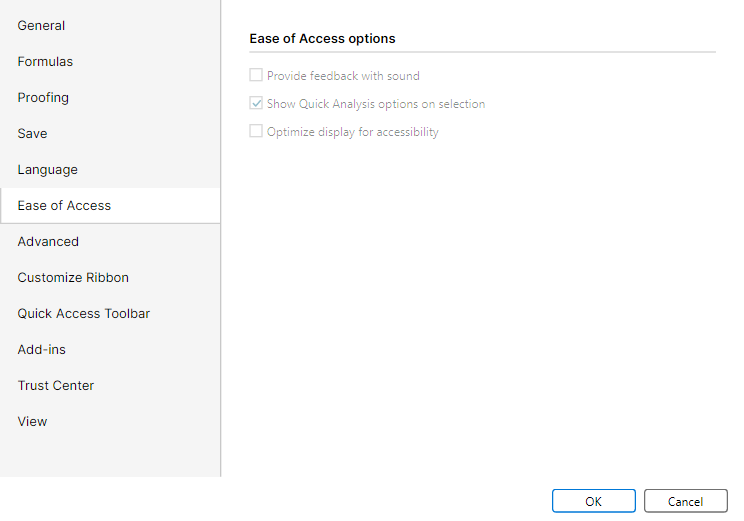
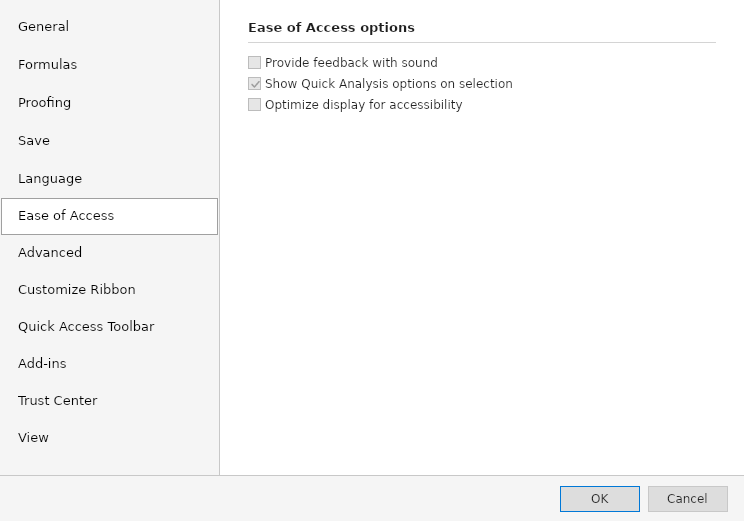
Align FreeX Ease of Access dialog parity

diff --git a/src/FreeX.App.Avalonia/MainWindow.Options.cs b/src/FreeX.App.Avalonia/MainWindow.Options.cs
@@ -490,10 +490,23 @@ public sealed partial class MainWindow
         languagePanel.Spacing = 0;
 
         var easePanel = OptionsCategoryPanel(
-            OptionsSectionHeader(OptionsText("Options_EaseOfAccessOptions")),
-            OptionsCheckBox(OptionsText("Options_ProvideFeedbackWithSound"), isEnabled: false),
-            OptionsCheckBox(OptionsText("Options_ShowQuickAnalysisOptionsOnSelection"), isChecked: true, isEnabled: false),
-            OptionsCheckBox(OptionsText("Options_OptimizeDisplayForAccessibility"), isEnabled: false));
+            OptionsSectionHeader(
+                OptionsText("Options_EaseOfAccessOptions"),
+                topMargin: OptionsDialogPlanner.EaseSectionHeaderTopMargin,
+                bottomMargin: OptionsDialogPlanner.EaseSectionHeaderBottomMargin,
+                ruleTopMargin: OptionsDialogPlanner.EaseSectionRuleTopMargin,
+                ruleBottomMargin: OptionsDialogPlanner.EaseSectionRuleBottomMargin),
+            WithMargin(
+                OptionsCheckBox(OptionsText("Options_ProvideFeedbackWithSound"), isEnabled: false, height: OptionsDialogPlanner.EaseCheckBoxHeight, preserveDisabledContrast: true),
+                new Thickness(0, 0, 0, OptionsDialogPlanner.EaseCheckBoxBottomMargin)),
+            WithMargin(
+                OptionsCheckBox(OptionsText("Options_ShowQuickAnalysisOptionsOnSelection"), isChecked: true, isEnabled: false, height: OptionsDialogPlanner.EaseCheckBoxHeight, preserveDisabledContrast: true),
+                new Thickness(0, 0, 0, OptionsDialogPlanner.EaseCheckBoxBottomMargin)),
+            WithMargin(
+                OptionsCheckBox(OptionsText("Options_OptimizeDisplayForAccessibility"), isEnabled: false, height: OptionsDialogPlanner.EaseCheckBoxHeight, preserveDisabledContrast: true),
+                new Thickness(0, 0, 0, OptionsDialogPlanner.EaseCheckBoxBottomMargin)));
+        // WPF's Ease page uses explicit checkbox margins, not the generic category gap.
+        easePanel.Spacing = 0;
 
         // ── Advanced (editing options) ────────────────────────────────────────────
         // The "After pressing Enter, move selection" toggle + its direction picker edit the persisted
@@ -1375,10 +1388,23 @@ public sealed partial class MainWindow
         AvaloniaCompactDialogChrome.ApplyRadioButton(radioButton, OptionsDialogChromeStyle);
     }
 
-    private static CheckBox OptionsCheckBox(string text, bool isChecked = false, bool isEnabled = true)
+    private static CheckBox OptionsCheckBox(
+        string text,
+        bool isChecked = false,
+        bool isEnabled = true,
+        double? height = null,
+        bool preserveDisabledContrast = false)
     {
         var cb = new CheckBox { Content = text, IsChecked = isChecked, IsEnabled = isEnabled };
         ApplyOptionsCheckBoxChrome(cb);
+        if (preserveDisabledContrast)
+            cb.Classes.Add("free-options-ease-checkbox");
+        if (height is { } fixedHeight)
+        {
+            cb.Height = fixedHeight;
+            cb.MinHeight = fixedHeight;
+            cb.MaxHeight = fixedHeight;
+        }
         return cb;
     }
 
@@ -1505,14 +1531,19 @@ public sealed partial class MainWindow
         public override string ToString() => Label;
     }
 
-    private static Control OptionsSectionHeader(string text, double topMargin = 10, double bottomMargin = 4) =>
+    private static Control OptionsSectionHeader(
+        string text,
+        double topMargin = 10,
+        double bottomMargin = 4,
+        double ruleTopMargin = 5,
+        double ruleBottomMargin = 0) =>
         new StackPanel
         {
             Margin = new Thickness(0, topMargin, 0, bottomMargin),
             Children =
             {
                 new TextBlock { Text = text, FontWeight = FontWeight.SemiBold, FontSize = 13 },
-                new Border { Height = 1, Background = Brush(212, 212, 212), Margin = new Thickness(0, 5, 0, 0) },
+                new Border { Height = 1, Background = Brush(212, 212, 212), Margin = new Thickness(0, ruleTopMargin, 0, ruleBottomMargin) },
             },
         };
 

diff --git a/src/FreeX.App.Avalonia/DialogControlStyles.cs b/src/FreeX.App.Avalonia/DialogControlStyles.cs
@@ -5,6 +5,7 @@ using Avalonia.Controls.Primitives;
 using Avalonia.Controls.Shapes;
 using Avalonia.Controls.Templates;
 using Avalonia.Data;
+using Avalonia.Input;
 using Avalonia.Layout;
 using Avalonia.Media;
 using Avalonia.Media.Immutable;
@@ -51,6 +52,9 @@ internal static class DialogControlStyles
     // WS-G token: FreeXTextBrush (#1F1F1F) — byte-identical to the literal; falls back when no app.
     private static readonly IBrush SelectionForegroundBrush =
         ResolveTokenBrush("FreeXTextBrush") ?? new ImmutableSolidColorBrush(Color.FromRgb(0x1F, 0x1F, 0x1F));
+    private static readonly IBrush DisabledCheckBackgroundBrush = new ImmutableSolidColorBrush(Color.FromRgb(0xE6, 0xE6, 0xE6));
+    private static readonly IBrush DisabledCheckBorderBrush = new ImmutableSolidColorBrush(Color.FromRgb(0xBC, 0xBC, 0xBC));
+    private static readonly IBrush DisabledCheckMarkBrush = new ImmutableSolidColorBrush(Color.FromRgb(0x9E, 0x9E, 0x9E));
 
     /// <summary>
     /// Looks up a named brush from the Application's resource registry (populated by
@@ -99,6 +103,29 @@ internal static class DialogControlStyles
             Margin = new Thickness(0, 0, 4, 0),
             Child = checkMark,
             VerticalAlignment = VerticalAlignment.Center,
+        };
+
+        void UpdateDisabledCheckChrome()
+        {
+            if (checkBox.IsEnabled)
+            {
+                indicator.Background = Brushes.White;
+                indicator.BorderBrush = BorderBrush;
+                checkMark.Stroke = AccentBrush;
+            }
+            else
+            {
+                indicator.Background = DisabledCheckBackgroundBrush;
+                indicator.BorderBrush = DisabledCheckBorderBrush;
+                checkMark.Stroke = DisabledCheckMarkBrush;
+            }
+        }
+
+        UpdateDisabledCheckChrome();
+        checkBox.PropertyChanged += (_, args) =>
+        {
+            if (args.Property == InputElement.IsEnabledProperty)
+                UpdateDisabledCheckChrome();
         };
 
         var presenter = new ContentPresenter
@@ -195,6 +222,13 @@ internal static class DialogControlStyles
         yield return new Style(x => x.OfType<CheckBox>().Class(":disabled"))
         {
             Setters = { new Setter(Visual.OpacityProperty, 0.45d) },
+        };
+
+        yield return new Style(x => x.OfType<CheckBox>().Class("free-options-ease-checkbox").Class(":disabled"))
+        {
+            // WPF keeps this Options page's disabled labels at full contrast and changes the glyph
+            // fill/check instead. Other dialogs retain the existing shared disabled opacity.
+            Setters = { new Setter(Visual.OpacityProperty, 1d) },
         };
 
         // ── RadioButton ─────────────────────────────────────────────────────────────────────────────

diff --git a/tests/FreeX.App.Avalonia.Tests/OptionsDialogGeneralParitySourceTests.cs b/tests/FreeX.App.Avalonia.Tests/OptionsDialogGeneralParitySourceTests.cs
@@ -68,6 +68,27 @@ public sealed class OptionsDialogGeneralParitySourceTests
         wpf.Should().Contain("Height=\"24\" VerticalAlignment=\"Center\"");
     }
 
+    [Fact]
+    public void EaseOfAccessOptions_UsesWpfHeaderAndCheckboxRhythm()
+    {
+        var source = File.ReadAllText(RepoFile("src", "FreeX.App.Avalonia", "MainWindow.Options.cs"));
+        var planner = File.ReadAllText(RepoFile("src", "FreeX.App.Services", "OptionsDialogPlanner.cs"));
+        var wpf = File.ReadAllText(RepoFile("src", "FreeX.App.Host", "OptionsDialog.xaml"));
+        var styles = File.ReadAllText(RepoFile("src", "FreeX.App.Avalonia", "DialogControlStyles.cs"));
+
+        source.Should().Contain("OptionsDialogPlanner.EaseSectionRuleBottomMargin");
+        source.Should().Contain("OptionsDialogPlanner.EaseCheckBoxBottomMargin");
+        source.Should().Contain("OptionsDialogPlanner.EaseCheckBoxHeight");
+        source.Should().Contain("free-options-ease-checkbox");
+        source.Should().Contain("easePanel.Spacing = 0;");
+        source.Should().Contain("ruleTopMargin: OptionsDialogPlanner.EaseSectionRuleTopMargin");
+        planner.Should().Contain("public const double EaseCheckBoxBottomMargin = 6;");
+        wpf.Should().Contain("<StackPanel x:Name=\"PanelEaseOfAccess\" Visibility=\"Collapsed\">");
+        wpf.Should().Contain("Margin=\"0,0,0,6\" FontSize=\"12\"");
+        styles.Should().Contain("DisabledCheckBackgroundBrush");
+        styles.Should().Contain("DisabledCheckMarkBrush");
+    }
+
     private static string RepoFile(params string[] parts)
     {
         var directory = new DirectoryInfo(AppContext.BaseDirectory);

diff --git a/tests/FreeX.App.Host.Tests/OptionsDialogSourceTests.General.cs b/tests/FreeX.App.Host.Tests/OptionsDialogSourceTests.General.cs
@@ -123,6 +123,19 @@ public sealed partial class OptionsDialogSourceTests
     }
 
     [Fact]
+    public void OptionsDialog_EaseOfAccessMatchesTheSharedWpfRowRhythm()
+    {
+        var xaml = DialogSourceTestSupport.ReadHostSources("OptionsDialog.xaml");
+
+        xaml.Should().Contain("x:Name=\"PanelEaseOfAccess\"");
+        xaml.Should().Contain("Options_EaseOfAccessOptions");
+        xaml.Should().Contain("Content=\"{local:Loc Key=Options_ProvideFeedbackWithSound}\"");
+        xaml.Should().Contain("Content=\"{local:Loc Key=Options_ShowQuickAnalysisOptionsOnSelection}\"");
+        xaml.Should().Contain("Content=\"{local:Loc Key=Options_OptimizeDisplayForAccessibility}\"");
+        xaml.Should().Contain("Margin=\"0,0,0,6\" FontSize=\"12\"");
+    }
+
+    [Fact]
     public void OptionsDialog_DefaultFormatUsesNativeFreexWorkbookExtension()
     {
         var source = DialogSourceTestSupport.ReadHostSources("OptionsDialog.xaml.cs");

diff --git a/src/FreeX.App.Services/OptionsDialogPlanner.cs b/src/FreeX.App.Services/OptionsDialogPlanner.cs
@@ -61,6 +61,12 @@ public static class OptionsDialogPlanner
     public const double GeneralCheckBoxHeight = 18;
     public const double GeneralFieldBottomMargin = 9;
     public const double GeneralUserNameBottomMargin = 6;
+    public const double EaseSectionHeaderTopMargin = 0;
+    public const double EaseSectionHeaderBottomMargin = 0;
+    public const double EaseSectionRuleTopMargin = 6;
+    public const double EaseSectionRuleBottomMargin = 13;
+    public const double EaseCheckBoxBottomMargin = 6;
+    public const double EaseCheckBoxHeight = 15;
     public const double LanguageFieldWidth = 240;
     public const double LanguageSectionTopMargin = 0;
     public const double LanguageSectionBottomMargin = 14;

diff --git a/tests/FreeX.App.Host.Tests/OptionsDialogSourceTests.cs b/tests/FreeX.App.Host.Tests/OptionsDialogSourceTests.cs
@@ -70,6 +70,15 @@ public sealed partial class OptionsDialogSourceTests
     }
 
     [Fact]
+    public void ParityCapture_TargetsOptionsEaseOfAccessForFocusedEvidence()
+    {
+        var source = DialogSourceTestSupport.ReadHostSources("ParityCapture.cs");
+
+        source.Should().Contain("string.Equals(targetSurfaceId, \"dialog.Options.EaseOfAccess\", StringComparison.Ordinal)");
+        source.Should().Contain("captureOnlySurfaceId: targetSurfaceId");
+    }
+
+    [Fact]
     public void ParityCapture_TargetsOptionsTrustCenterForFocusedEvidence()
     {
         var source = DialogSourceTestSupport.ReadHostSources("ParityCapture.cs");

diff --git a/src/FreeX.App.Host/ParityCapture.cs b/src/FreeX.App.Host/ParityCapture.cs
@@ -615,6 +615,7 @@ internal static class ParityCapture
             }
             else if (string.Equals(targetSurfaceId, "dialog.Options.Save", StringComparison.Ordinal) ||
                 string.Equals(targetSurfaceId, "dialog.Options.Language", StringComparison.Ordinal) ||
+                string.Equals(targetSurfaceId, "dialog.Options.EaseOfAccess", StringComparison.Ordinal) ||
                 string.Equals(targetSurfaceId, "dialog.Options.CustomizeRibbon", StringComparison.Ordinal) ||
                 string.Equals(targetSurfaceId, "dialog.Options.TrustCenter", StringComparison.Ordinal))
             {

diff --git a/docs/parity/dialog-visual-evidence-summary.md b/docs/parity/dialog-visual-evidence-summary.md
@@ -62,7 +62,6 @@ Outliers are ranked by a deterministic triage score: normalized 32x32 ARGB sampl
 
 | Surface id | WPF logical size | Avalonia logical size | Raw PNG sizes | Bucket | Evidence flag | Score | Sample delta | Luma delta | Non-bg delta |
 | --- | ---: | ---: | --- | --- | --- | ---: | ---: | ---: | ---: |
-| dialog.Options.EaseOfAccess | 744x521 | 744x521 | 744x521 px @ 96 DPI vs 744x521 px @ 96 DPI |  |  | 0.098 | 0.015 | 0.008 | 0.075 |
 | dialog.Options.AddIns | 744x521 | 744x521 | 744x521 px @ 96 DPI vs 744x521 px @ 96 DPI |  |  | 0.097 | 0.015 | 0.006 | 0.076 |
 | dialog.FindReplace | 720x430 | 720x430 | 720x430 px @ 96 DPI vs 720x430 px @ 96 DPI |  |  | 0.095 | 0.015 | 0.005 | 0.075 |
 | dialog.FindReplace.Find | 720x430 | 720x430 | 720x430 px @ 96 DPI vs 720x430 px @ 96 DPI |  |  | 0.095 | 0.015 | 0.005 | 0.075 |
@@ -72,6 +71,7 @@ Outliers are ranked by a deterministic triage score: normalized 32x32 ARGB sampl
 | dialog.PageSetup | 600x560 | 600x560 | 600x560 px @ 96 DPI vs 600x560 px @ 96 DPI |  |  | 0.091 | 0.025 | 0.007 | 0.059 |
 | dialog.PageSetup.Page | 600x560 | 600x560 | 600x560 px @ 96 DPI vs 600x560 px @ 96 DPI |  |  | 0.091 | 0.025 | 0.007 | 0.059 |
 | dialog.FormatCells.Alignment | 620x540 | 620x540 | 620x540 px @ 96 DPI vs 620x540 px @ 96 DPI |  |  | 0.090 | 0.013 | 0.011 | 0.066 |
+| dialog.EvaluateFormula | 600x360 | 600x360 | 900x540 px @ 144 DPI vs 600x360 px @ 96 DPI |  |  | 0.090 | 0.030 | 0.007 | 0.052 |
 
 ## Scale-Aware Dimension Mismatch Details
 
@@ -132,7 +132,7 @@ These rows have a DPI-normalized checked-in PNG size that disagrees with the dia
 | dialog.Options.AddIns | dialog.Options.AddIns.png | 744x521 | 744x521 px @ 96 DPI | True | dialog.Options.AddIns.png | 744x521 | 744x521 px @ 96 DPI | True | True | 0.097 |
 | dialog.Options.Advanced | dialog.Options.Advanced.png | 744x521 | 744x521 px @ 96 DPI | True | dialog.Options.Advanced.png | 744x521 | 744x521 px @ 96 DPI | True | True | 0.041 |
 | dialog.Options.CustomizeRibbon | dialog.Options.CustomizeRibbon.png | 744x521 | 744x521 px @ 96 DPI | True | dialog.Options.CustomizeRibbon.png | 744x521 | 744x521 px @ 96 DPI | True | True | 0.024 |
-| dialog.Options.EaseOfAccess | dialog.Options.EaseOfAccess.png | 744x521 | 744x521 px @ 96 DPI | True | dialog.Options.EaseOfAccess.png | 744x521 | 744x521 px @ 96 DPI | True | True | 0.098 |
+| dialog.Options.EaseOfAccess | dialog.Options.EaseOfAccess.png | 744x521 | 744x521 px @ 96 DPI | True | dialog.Options.EaseOfAccess.png | 744x521 | 744x521 px @ 96 DPI | True | True | 0.013 |
 | dialog.Options.Formulas | dialog.Options.Formulas.png | 744x777 | 744x777 px @ 96 DPI | True | dialog.Options.Formulas.png | 744x777 | 744x777 px @ 96 DPI | True | True | 0.093 |
 | dialog.Options.General | dialog.Options.General.png | 744x521 | 744x521 px @ 96 DPI | True | dialog.Options.General.png | 744x521 | 744x521 px @ 96 DPI | True | True | 0.032 |
 | dialog.Options.Language | dialog.Options.Language.png | 744x521 | 744x521 px @ 96 DPI | True | dialog.Options.Language.png | 744x521 | 744x521 px @ 96 DPI | True | True | 0.021 |

diff --git a/docs/parity/avalonia-parity-wave112-ease-of-access-20260802.md b/docs/parity/avalonia-parity-wave112-ease-of-access-20260802.md
@@ -1,0 +1,26 @@
+# Avalonia Parity Wave112: Ease Of Access
+
+## Scope
+
+- FreeX `dialog.Options.EaseOfAccess` against the WPF authority.
+- Preserve normal `AppOptionsStore`-backed Options behavior; use `OptionsDialogParityFixture` only in parity capture routes.
+
+## Evidence
+
+- Baseline triage score: `0.097761`.
+- Fresh paired WPF and Avalonia captures: `744x521` logical pixels at 96 DPI; both are nonblank and dimension-matched.
+- Fresh triage score: `0.012617` (`87.1%` lower than baseline).
+- Fresh normalized pixel comparison: `1.40%` changed pixels.
+- Fresh WPF capture: `--parity-capture --parity-capture-target dialog.Options.EaseOfAccess`.
+- Fresh Avalonia capture: self-contained Linux app in Ubuntu 24.04 Docker/Xvfb via `--parity-capture`.
+
+## Delivered
+
+- Added shared planner metrics for the WPF header rule, post-rule clearance, checkbox row height, and checkbox margin.
+- Matched Avalonia Ease page spacing and header rhythm to the WPF XAML authority.
+- Updated the existing compact checkbox template so disabled Ease controls retain WPF-like label contrast and use disabled fill, border, and check-mark colors.
+- Added focused WPF/Avalonia source tests and enabled focused WPF capture selection for this tab.
+
+## Remaining
+
+- The remaining `1.40%` difference is platform text and control rasterization; no obvious Ease-of-Access layout or state gap remains in this surface.
